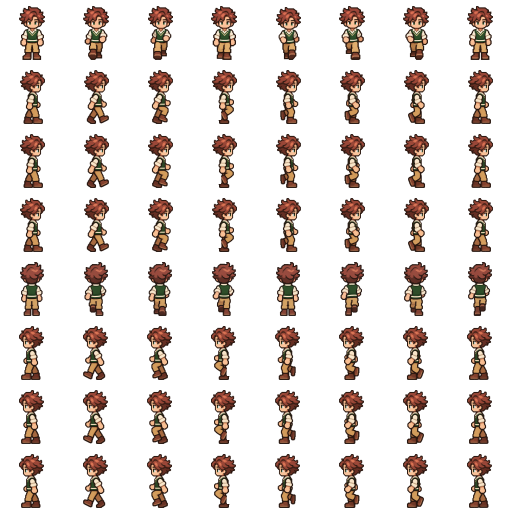
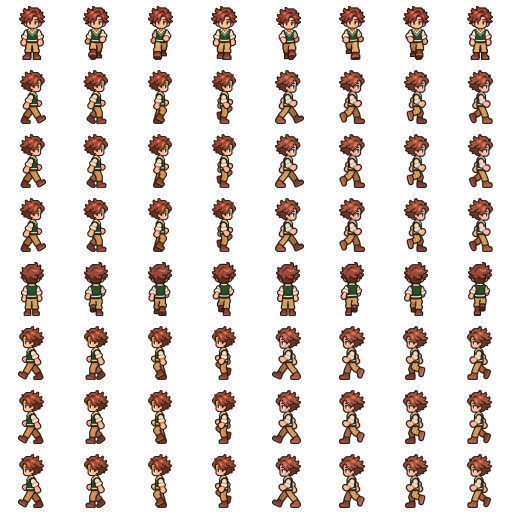
Restore alternating two-layer Alex side gait and add standalone GIF

diff --git a/scripts/build-alex64.py b/scripts/build-alex64.py
@@ -57,6 +57,28 @@ def extract(filename: str, parts: int) -> list[Image.Image]:
     return frames
 
 
+def extract_far_leg_phases() -> list[Image.Image]:
+    """Keep all four re-drawn rear-leg strides, including the first forward toe.
+
+    The image generator spaced the four figures asymmetrically; equal-width
+    slicing would cut off the leading (dark, layer-2) boot in the first pose.
+    These non-overlapping windows hold complete individual hand-painted frames.
+    """
+    whole = Image.open(SOURCE / "walk_side_far_v2.png").convert("RGBA")
+    windows = ((230, 590), (690, 1030), (1160, 1500), (1620, 1970))
+    frames = []
+    for left, right in windows:
+        part = whole.crop((left, 0, right, whole.height))
+        alpha = part.getchannel("A").point(lambda a: 255 if a >= 64 else 0)
+        box = alpha.getbbox()
+        if not box:
+            raise ValueError("A rear-leg stride frame is empty")
+        part = part.crop(box)
+        part.putalpha(part.getchannel("A").point(lambda a: a if a >= 64 else 0))
+        frames.append(part)
+    return frames
+
+
 def normalize(frames: list[Image.Image], *, target_height: int = 54) -> list[Image.Image]:
     """Use one scale per motion, a centered head axis, and one foot baseline."""
     max_width = max(im.width for im in frames)
@@ -76,6 +98,17 @@ def normalize(frames: list[Image.Image], *, target_height: int = 54) -> list[Ima
         dy = FEET_Y - h
         cell = Image.new("RGBA", (CELL, CELL))
         cell.alpha_composite(sprite, (dx, dy))
+        # Generated pose groups can have subtly different outer hair shapes.
+        # After scaling, correct the *actual painted* head midpoint to within
+        # half a pixel of x=32, shifting the whole body (never only its head).
+        painted_head = cell.getchannel("A").crop((0, 0, CELL, 25)).getbbox()
+        if painted_head:
+            axis = (painted_head[0] + painted_head[2]) / 2
+            shift = round(CELL / 2 - axis)
+            if shift:
+                aligned = Image.new("RGBA", (CELL, CELL))
+                aligned.alpha_composite(cell, (shift, 0))
+                cell = aligned
         result.append(cell)
     return result
 
@@ -102,6 +135,20 @@ def row_by_direction(front, side, back):
     return [front, side, side, side, back, flip(side), flip(side), flip(side)]
 
 
+def boot_red_level(frame: Image.Image, left: int, right: int) -> float:
+    """Approximate the lower boot's red-channel lightness for layer QA."""
+    pix = frame.load()
+    values = []
+    for y in range(44, 61):
+        for x in range(left, right):
+            r, g, b, a = pix[x, y]
+            if a > 150 and 65 < r < 195 and g < 145:
+                values.append(r)
+    if not values:
+        raise ValueError("Missing brown boot pixels in a walking frame")
+    return sum(values) / len(values)
+
+
 def main():
     OUT.mkdir(parents=True, exist_ok=True)
     turnaround = normalize(extract("turnaround.png", 3))
@@ -110,7 +157,22 @@ def main():
     fixed_side = [side_static.copy() for _ in range(8)]
     fixed_back = [back_static.copy() for _ in range(8)]
     walk_front = normalize(extract("walk_front.png", 8))
-    walk_side = normalize(extract("walk_side.png", 8))
+    # The original 64px side drawing had a one-leg-only forward cycle. Keep
+    # the hand-painted whole-character frames, but explicitly assemble two
+    # equal four-phase support-foot halves. The lighter near leg (layer 1)
+    # strides first; the darker far leg (layer 2) then visibly strides ahead
+    # while remaining occluded at the hip/knee by the near leg throughout.
+    walk_side = (normalize(extract("walk_side_near_v2.png", 8)[:4])
+                 + normalize(extract_far_leg_phases()))
+    # Protect against the original one-leg-only regression: frames 1-4 have
+    # the brighter near shoe in the forward/right slot, but frames 5-7 MUST
+    # visibly advance the darker far shoe into that same forward slot.
+    def right_minus_left(frame):
+        return boot_red_level(frame, 33, 53) - boot_red_level(frame, 12, 31)
+    if right_minus_left(walk_side[0]) <= 5:
+        raise ValueError("Near-side leg no longer leads the first half of the side gait")
+    if any(right_minus_left(walk_side[f]) >= -8 for f in (4, 5, 6)):
+        raise ValueError("The darker layer-2 leg must step forward during frames 5-7")
     walk_back = normalize(extract("walk_back.png", 8))
     idle_front = normalize(extract("idle_front.png", 8))
     talk_front = normalize(extract("talk_front.png", 8))
@@ -125,6 +187,8 @@ def main():
 
     audit = {"cell": CELL, "foot_anchor_y": FEET_Y, "frames_per_action": 8,
              "directions": DIRS, "actions": {}}
+    audit["side_gait_right_minus_left"] = [round(right_minus_left(frame), 1)
+                                           for frame in walk_side]
     for action, atlas in (("walk", walk), ("idle", idle), ("talk", talk), ("sit", sit)):
         records = []
         for direction in range(len(DIRS)):
@@ -159,7 +223,21 @@ def main():
             frames.append(frame.convert("RGB"))
     frames[0].save(OUT / "alex_actions.gif", save_all=True, append_images=frames[1:],
                    duration=durations, loop=0, optimize=False)
-    print("QA files: alex_qa.png, alex_actions.gif")
+
+    # Standalone right-facing sideways gait: the eight exact in-game frames,
+    # with the same feet/head axes and no interpolation or added in-betweens.
+    # The left-facing lane of the atlas mirrors this sequence.
+    sideways = []
+    for phase in range(8):
+        sheet_frame = walk.crop((phase * CELL, 2 * CELL,
+                                 (phase + 1) * CELL, 3 * CELL))
+        preview = Image.new("RGBA", (224, 224), "#e9eedf")
+        preview.alpha_composite(sheet_frame.resize((192, 192), Image.Resampling.NEAREST), (16, 16))
+        sideways.append(preview.convert("RGB"))
+    sideways[0].save(OUT / "alex_walk_side.gif", save_all=True,
+                     append_images=sideways[1:], duration=[120, 130] * 4,
+                     disposal=2, loop=0, optimize=False)
+    print("QA files: alex_qa.png, alex_actions.gif, alex_walk_side.gif")
 
 
 if __name__ == "__main__":
